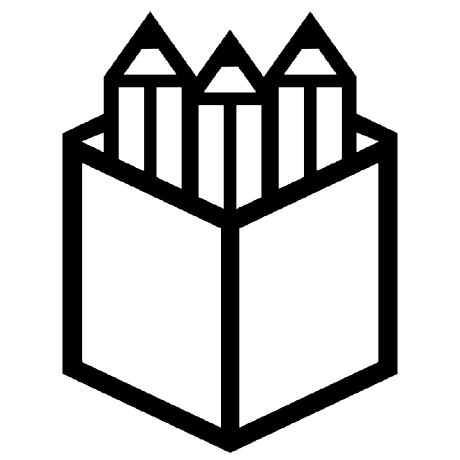
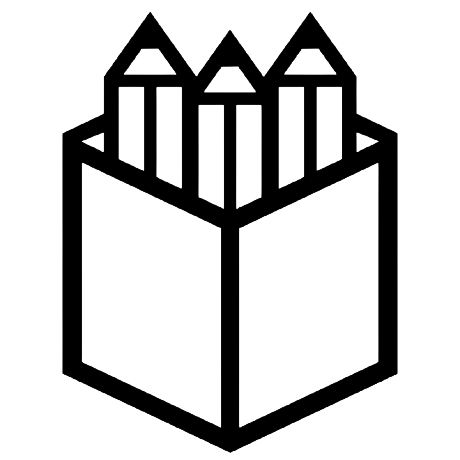
More new pics

diff --git a/src/content/software/phet.md b/src/content/software/phet.md
@@ -1,12 +1,12 @@
 ---
-title: "PhET Interactive Simulations (Science)"
+title: "PhET Interactive Simulations"
 alternative_to: ["Labster (commercial)", "SimBio (commercial)", "Vernier (data collection)"]
 categories: ["Εκπαίδευση", "Φυσική", "Χημεία", "Βιολογία"]
 website: "https://phet.colorado.edu"
-logo: "/images/phet.svg"
+logo: "/images/phet.png"
 license: "GPL-3.0 (source code), CC-BY (simulations content)"
 description: "Μια συλλογή από **δωρεάν, διαδραστικές προσομοιώσεις φυσικής, χημείας, βιολογίας, γεωλογίας και μαθηματικών**, που αναπτύχθηκε από το Πανεπιστήμιο του Κολοράντο (Boulder). Οι προσομοιώσεις βασίζονται σε έρευνα (και αξιολόγηση) και είναι σχεδιασμένες έτσι ώστε οι μαθητές να 'πειραματίζονται' χωρίς κίνδυνο (virtual labs). Υποστηρίζουν HTML5 (λειτουργούν σε browser, κινητά, tablets, χωρίς Flash)."
-featured: true
+featured: false
 ---
 
 Οι προσομοιώσεις PhET είναι interactive εργαστήρια. Αντί να διαβάζουν θεωρία, οι μαθητές ρυθμίζουν παραμέτρους (π.χ. μάζα, γωνία, θερμοκρασία) και παρατηρούν το αποτέλεσμα (γραφικές παραστάσεις, κινούμενα σχήματα).

diff --git a/src/content/software/php-dynamic-qr.md b/src/content/software/php-dynamic-qr.md
@@ -3,7 +3,7 @@ title: "PHP Dynamic QR Code"
 alternative_to: ["QR Code Generator Pro (paid)", "QRazy (commercial)", "QR Server (self-hosted)"]
 categories: ["Εργαλεία", "Παραγωγικότητα", "QR"]
 website: "https://github.com/giandonatoinverso/PHP-Dynamic-Qr-code"
-logo: "/images/php-dynamic-qr.svg"
+logo: "/images/php-dynamic-qr.png"
 license: "MIT"
 description: "#1 δυναμικός QR code generator στο GitHub. Επιτρέπει τη δημιουργία, αποθήκευση και διαχείριση στατικών και δυναμικών QR codes με βάση δεδομένων (MySQL). Περιλαμβάνει dashboard, πολλαπλούς λογαριασμούς, στατιστικά σαρώσεων (scans), URL shortener, και πλήρη παραμετροποίηση QR (χρώματα, size, error correction)."
 featured: false

diff --git a/src/content/software/penpot.md b/src/content/software/penpot.md
@@ -6,7 +6,7 @@ website: "https://penpot.app/"
 logo: "/images/penpot.png"
 license: "MPL-2.0"
 description: "Η κορυφαία open-source πλατφόρμα σχεδιασμού και πρωτοτυποποίησης (UI/UX design), για τη δημιουργία διαδραστικών πρωτοτύπων, wireframes, mockups, και design systems. Επιτρέπει την άψογη συνεργασία (real-time) μεταξύ σχεδιαστών και προγραμματιστών (με export CSS, SVG, JSON). Είναι web-based (HTML/CSS/JS) και μπορεί να self-hosted (Docker). Ιδανική αντικατάσταση του Figma (που δεν είναι open source)."
-featured: true
+featured: false
 ---
 
 Το Penpot (από την Kaleidos) είναι η ελπίδα για open-source UI/UX design.

diff --git a/src/content/software/osem.md b/src/content/software/osem.md
@@ -3,7 +3,7 @@ title: "OSEM (Open Source Event Manager)"
 alternative_to: ["EasyChair", "OpenConf", "ConfTool", "EDAS"]
 categories: ["Εργαλεία", "Συνέδρια", "Εκδηλώσεις",  "Cloud"]
 website: "https://osem.io/"
-logo: "/images/osem.svg"
+logo: "/images/osem.png"
 license: "GPL-3.0 (supposedly, as open source)"
 description: "Εργαλείο διαχείρισης εκδηλώσεων σχεδιασμένο για συνέδρια ελεύθερου λογισμικού (FOSS conferences), που βοηθά στη διαδικασία Call for Papers (CfP), την αξιολόγηση από κριτές, τον προγραμματισμό ομιλιών και τη διαχείριση εγγραφών."
 featured: false
